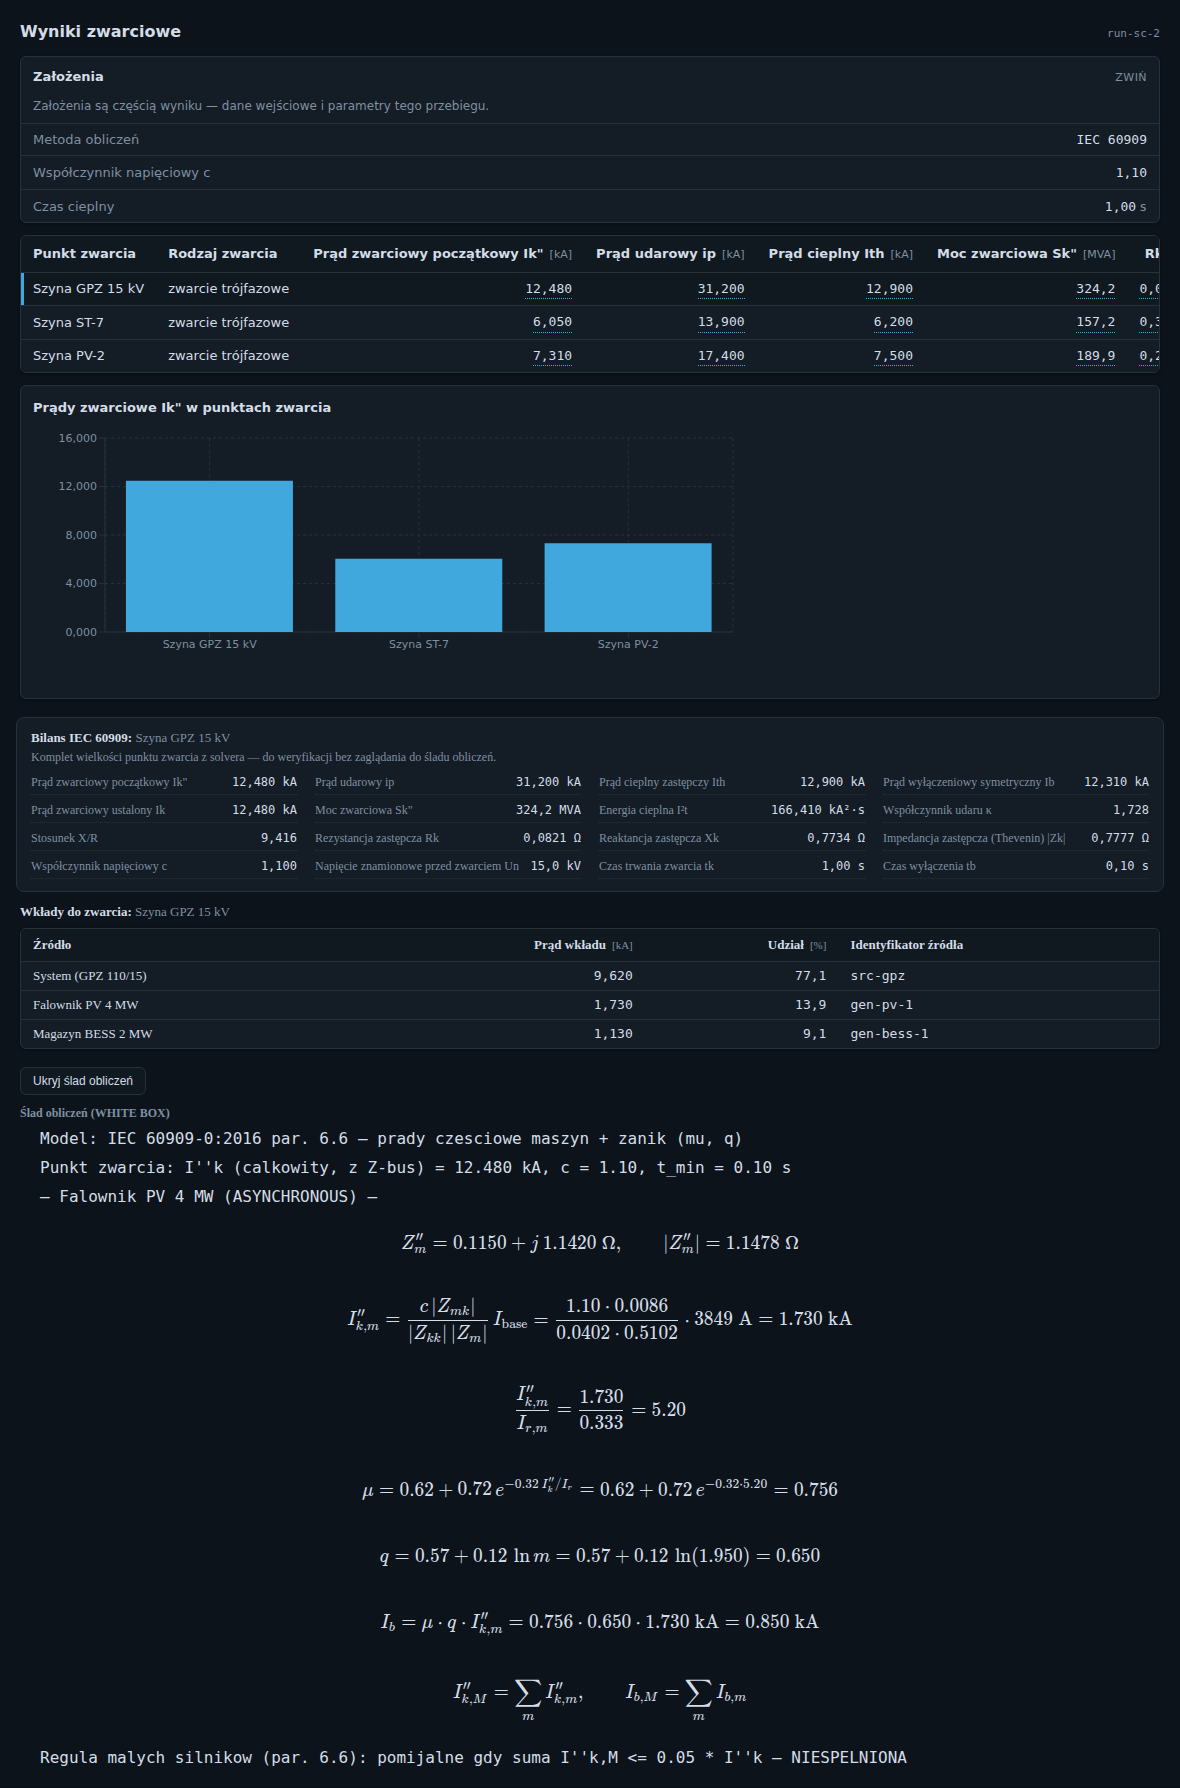
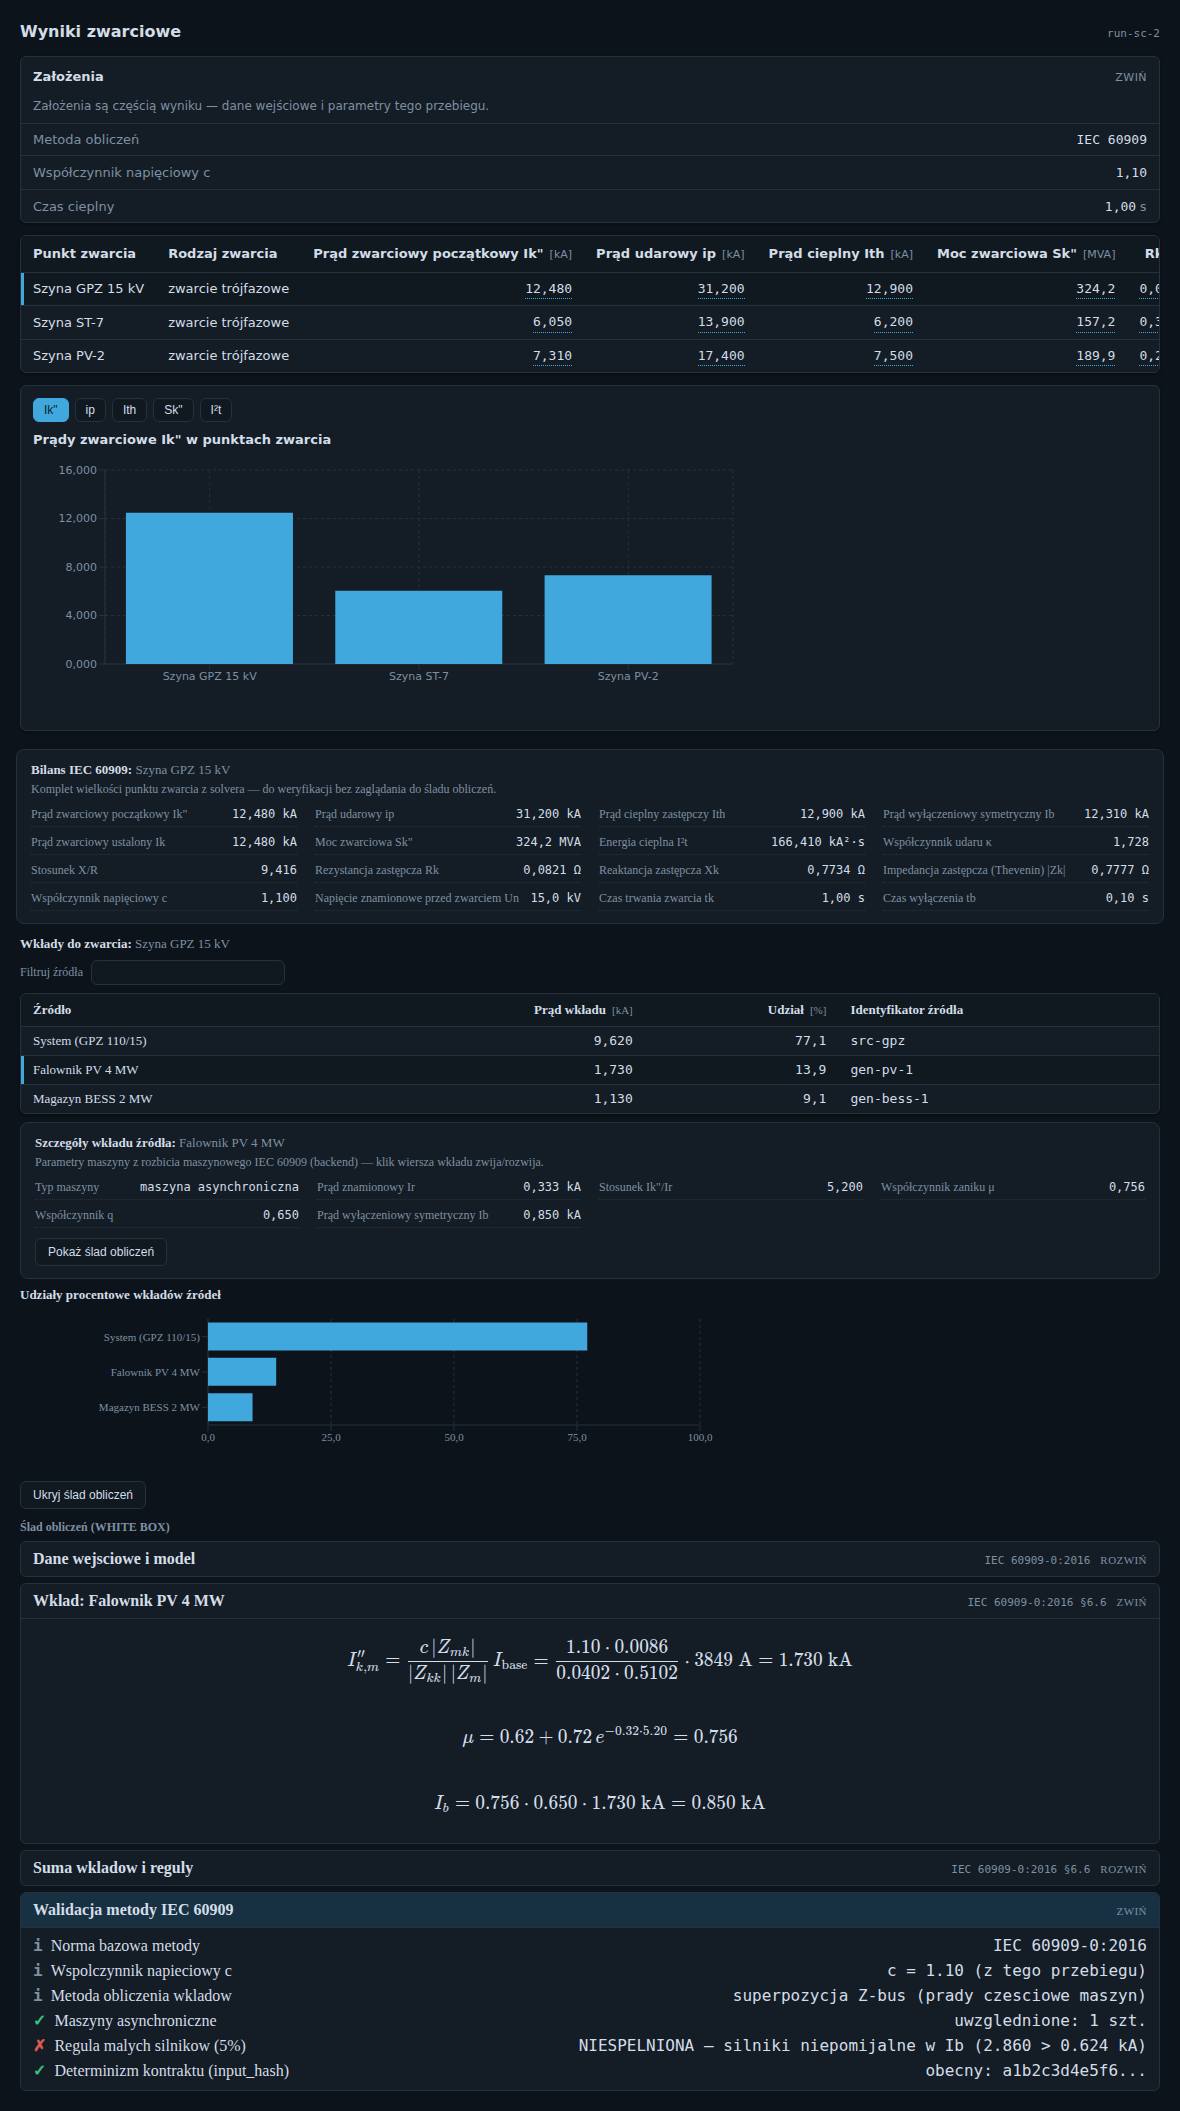
ZWARCIA-PRO: scena harnessu pokazuje pelny ekran F1+F2+F3
Stub contributions rozszerzony o pola maszynowe (szczegol W-A F2),
wywod_sekcje i walidacja_iec (W-B F3) — ksztalt 1:1 z endpointem.
Spec: rozwiniecie wkladu maszyny, akordeon sekcji z KaTeX, checklista
walidacji IEC. Zrzuty zwarc 2/2 zielone.

Claude-Session: https://claude.ai/code/session_01KyqX3x2UY6tyGCiMhNbA3u

diff --git a/mv-design-pro/frontend/src/creator-harness-main.tsx b/mv-design-pro/frontend/src/creator-harness-main.tsx
@@ -162,7 +162,20 @@ window.fetch = (async (input: RequestInfo | URL, init?: RequestInit) => {
       JSON.stringify({
         contributions: [
           { source_id: 'src-gpz', source_name: 'System (GPZ 110/15)', ikss_partial_a: 9620 },
-          { source_id: 'gen-pv-1', source_name: 'Falownik PV 4 MW', ikss_partial_a: 1730 },
+          {
+            source_id: 'gen-pv-1', source_name: 'Falownik PV 4 MW', ikss_partial_a: 1730,
+            machine_type: 'ASYNCHRONOUS', ir_a: 333, ratio_ik_ir: 5.2, mu: 0.756, q: 0.65, ib_a: 850,
+            wywod: [
+              {
+                tekst: 'Wspolczynnik zaniku mu (krzywa t_min = 0.10 s, par. 6.6.1): mu = 0.756',
+                latex: "\\mu = 0.62 + 0.72\\,e^{-0.32\\,I''_k/I_r} = 0.62 + 0.72\\,e^{-0.32 \\cdot 5.20} = 0.756",
+              },
+              {
+                tekst: 'Prad wylaczeniowy symetryczny: Ib = 0.850 kA',
+                latex: "I_b = \\mu \\cdot q \\cdot I''_{k,m} = 0.756 \\cdot 0.650 \\cdot 1.730\\;\\mathrm{kA} = 0.850\\;\\mathrm{kA}",
+              },
+            ],
+          },
           { source_id: 'gen-bess-1', source_name: 'Magazyn BESS 2 MW', ikss_partial_a: 1130 },
         ],
         // Wywod DYPLOMOWY {tekst, latex} — ksztalt 1:1 z `_wywod_wkladow`
@@ -206,6 +219,57 @@ window.fetch = (async (input: RequestInfo | URL, init?: RequestInit) => {
             tekst: "Regula malych silnikow (par. 6.6): pomijalne gdy suma I''k,M <= 0.05 * I''k — NIESPELNIONA",
             latex: null,
           },
+        ],
+        // ZWARCIA-PRO F3: wywod sekcyjny (akordeon z norma) + checklista walidacji IEC.
+        wywod_sekcje: [
+          {
+            tytul: 'Dane wejsciowe i model',
+            norma: 'IEC 60909-0:2016',
+            kroki: [
+              { tekst: 'Model: IEC 60909-0:2016 par. 6.6 — prady czesciowe maszyn + zanik (mu, q)', latex: null },
+              { tekst: "Punkt zwarcia: I''k (calkowity, z Z-bus) = 12.480 kA, c = 1.10, t_min = 0.10 s", latex: null },
+            ],
+          },
+          {
+            tytul: 'Wklad: Falownik PV 4 MW',
+            norma: 'IEC 60909-0:2016 §6.6',
+            kroki: [
+              {
+                tekst: 'Prad czesciowy maszyny (superpozycja Z-bus)',
+                latex: "I''_{k,m} = \\frac{c\\,|Z_{mk}|}{|Z_{kk}|\\,|Z_m|}\\,I_{\\mathrm{base}} = \\frac{1.10 \\cdot 0.0086}{0.0402 \\cdot 0.5102} \\cdot 3849\\;\\mathrm{A} = 1.730\\;\\mathrm{kA}",
+              },
+              {
+                tekst: 'Wspolczynnik zaniku mu (krzywa t_min = 0.10 s): mu = 0.756',
+                latex: "\\mu = 0.62 + 0.72\\,e^{-0.32 \\cdot 5.20} = 0.756",
+              },
+              {
+                tekst: 'Prad wylaczeniowy symetryczny: Ib = 0.850 kA',
+                latex: "I_b = 0.756 \\cdot 0.650 \\cdot 1.730\\;\\mathrm{kA} = 0.850\\;\\mathrm{kA}",
+              },
+            ],
+          },
+          {
+            tytul: 'Suma wkladow i reguly',
+            norma: 'IEC 60909-0:2016 §6.6',
+            kroki: [
+              {
+                tekst: "Suma wkladow maszyn: I''k,M = 2.860 kA, I_b,M = 2.107 kA",
+                latex: "I''_{k,M} = \\sum_m I''_{k,m}, \\qquad I_{b,M} = \\sum_m I_{b,m}",
+              },
+              {
+                tekst: "Regula malych silnikow (par. 6.6): wymaganie suma I''k,M <= 0.05 * I''k; prog 0.624 kA; obliczone 2.860 kA -> NIESPELNIONA (silniki niepomijalne w Ib)",
+                latex: "\\sum_m I''_{k,M} = 2.860\\;\\mathrm{kA} \\; > \\; 0.05 \\cdot 12.480\\;\\mathrm{kA} = 0.624\\;\\mathrm{kA} \\Rightarrow \\text{NIESPELNIONA}",
+              },
+            ],
+          },
+        ],
+        walidacja_iec: [
+          { pozycja_pl: 'Norma bazowa metody', wartosc_pl: 'IEC 60909-0:2016', status: 'INFO' },
+          { pozycja_pl: 'Wspolczynnik napieciowy c', wartosc_pl: 'c = 1.10 (z tego przebiegu)', status: 'INFO' },
+          { pozycja_pl: 'Metoda obliczenia wkladow', wartosc_pl: 'superpozycja Z-bus (prady czesciowe maszyn)', status: 'INFO' },
+          { pozycja_pl: 'Maszyny asynchroniczne', wartosc_pl: 'uwzglednione: 1 szt.', status: 'PASS' },
+          { pozycja_pl: 'Regula malych silnikow (5%)', wartosc_pl: 'NIESPELNIONA — silniki niepomijalne w Ib (2.860 > 0.624 kA)', status: 'FAIL' },
+          { pozycja_pl: 'Determinizm kontraktu (input_hash)', wartosc_pl: 'obecny: a1b2c3d4e5f6...', status: 'PASS' },
         ],
       }),
       { status: 200, headers: { 'Content-Type': 'application/json' } },

diff --git a/mv-design-pro/frontend/e2e/flow-ekspert-screenshot.spec.ts b/mv-design-pro/frontend/e2e/flow-ekspert-screenshot.spec.ts
@@ -85,12 +85,27 @@ test.describe('flow-ekspert:screenshot', () => {
           await expect(page.getByTestId('mvd-zwarcia-bilans')).toContainText('0,7777 Ω');
           await expect(page.getByTestId('mvd-zwarcia-bilans')).toContainText('1,728');
           await expect(page.getByTestId('mvd-wyn-th-kappa')).toBeVisible();
-          // Zasada KaTeX (2026-07-22): slad obliczen na zadanie — klik przycisku
-          // rozwija wywod z wzorami renderowanymi matematycznie.
+          // F2: rozwiniecie wkladu maszyny (klik wiersza tabeli wkladow -> mu/q/Ib).
+          await page
+            .getByTestId('mvd-zwarcia-wklady')
+            .getByTestId('mvd-wyn-tabela')
+            .getByText('Falownik PV 4 MW')
+            .click();
+          await expect(page.getByTestId('mvd-zwarcia-wklad-szczegol')).toContainText('0,756');
+          // F3: wywod SEKCYJNY na zadanie — akordeon z norma; klik sekcji wkladu
+          // -> kroki KaTeX; checklista walidacji IEC.
           await page.getByTestId('mvd-zwarcia-wklady-slad-btn').click();
+          await page.getByTestId('mvd-zwarcia-wklady-slad-sekcja-btn-1').click();
           await expect(
-            page.getByTestId('mvd-zwarcia-wklady-slad').locator('[data-testid="math-rendered"]').first(),
+            page
+              .getByTestId('mvd-zwarcia-wklady-slad-sekcja-kroki-1')
+              .locator('[data-testid="math-rendered"]')
+              .first(),
           ).toBeVisible();
+          await page.getByTestId('mvd-zwarcia-wklady-slad-walidacja-btn').click();
+          await expect(page.getByTestId('mvd-zwarcia-wklady-slad-walidacja')).toContainText(
+            'IEC 60909-0:2016',
+          );
         } else if (scena === 'porownanie') {
           // R3-C: wybor pary A/B + jawne "Porownaj przebiegi" -> wynik z tabela
           // szyn (kolumny A i B z dowodami wlasciwego przebiegu).
